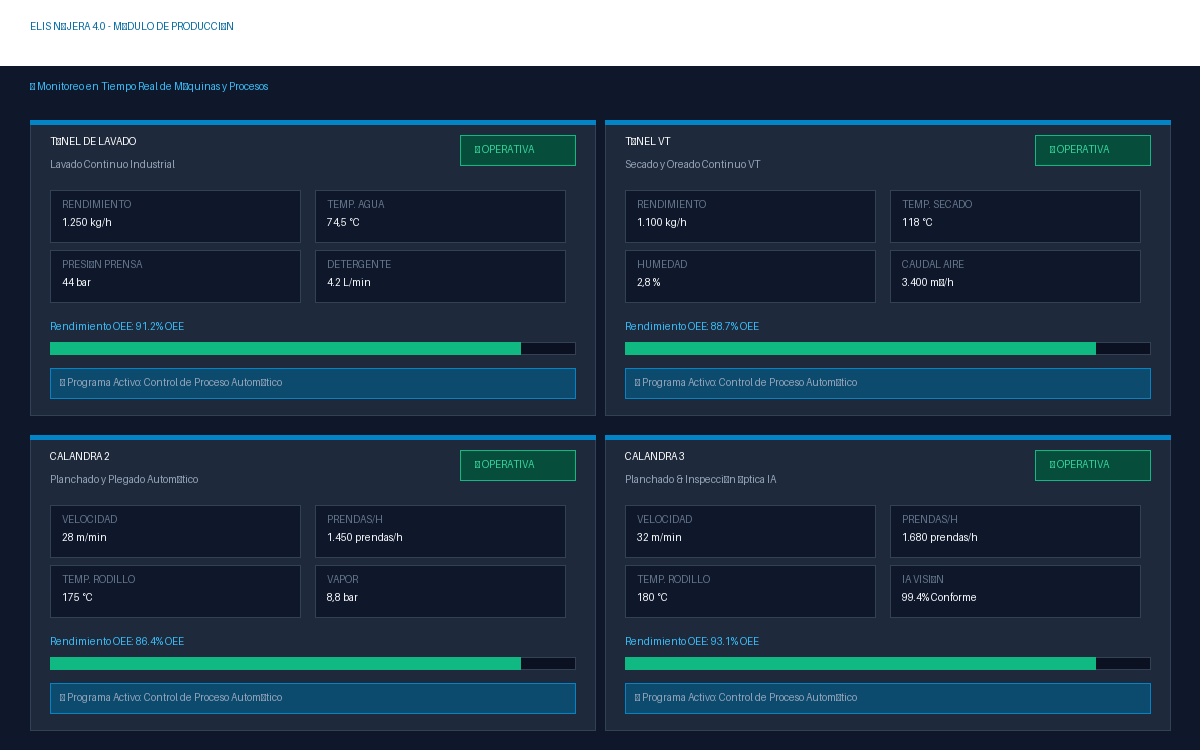
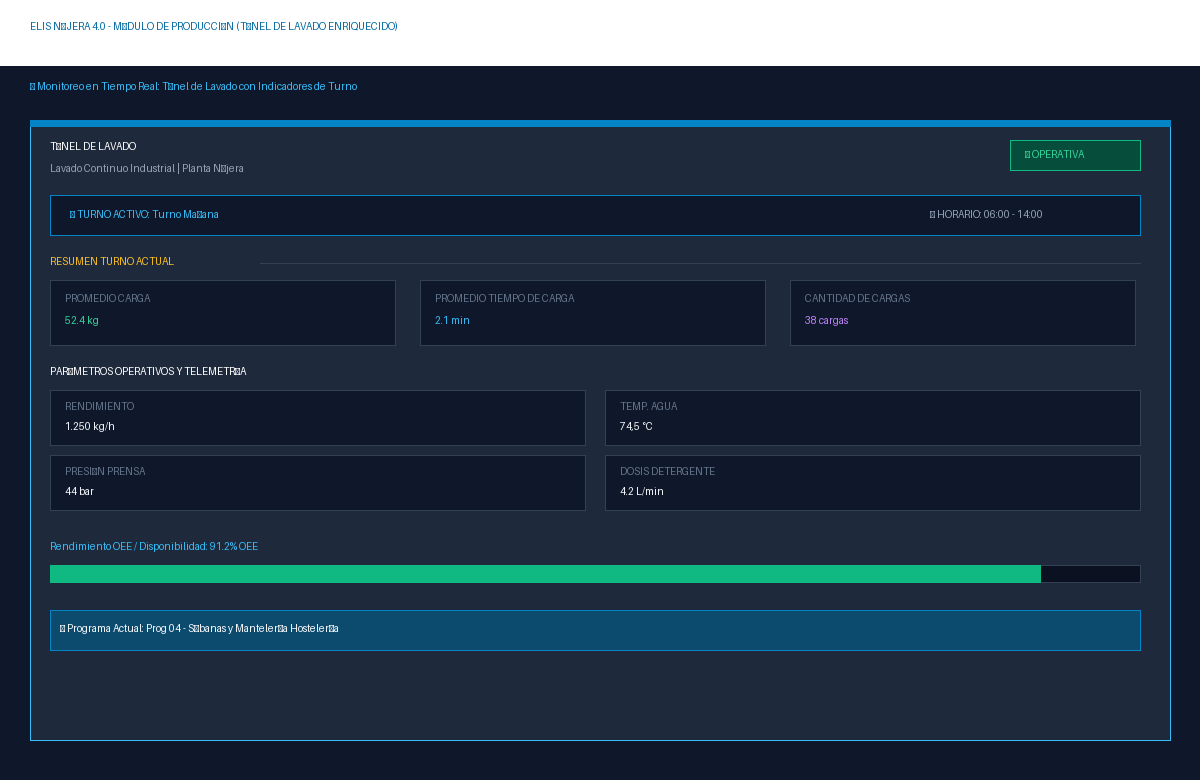
feat: add shift info, subtitle and 3 shift indicators for Tunel de Lavado

diff --git a/app/static/css/styles.css b/app/static/css/styles.css
@@ -384,7 +384,6 @@ body {
   display: flex;
   align-items: center;
   justify-content: space-between;
-
 }
 
 .machine-title-box {
@@ -417,6 +416,96 @@ body {
   font-size: 0.75rem;
   color: var(--text-muted);
   font-weight: 600;
+}
+
+/* Banner de Turno y Horario */
+.shift-banner {
+  background: rgba(15, 23, 42, 0.9);
+  border: 1px solid rgba(56, 189, 248, 0.3);
+  padding: 8px 14px;
+  border-radius: 8px;
+  display: flex;
+  align-items: center;
+  justify-content: space-between;
+  font-size: 0.85rem;
+  color: #e2e8f0;
+}
+
+.shift-banner .shift-title {
+  font-weight: 700;
+  color: #38bdf8;
+  display: flex;
+  align-items: center;
+  gap: 6px;
+}
+
+.shift-banner .shift-time {
+  font-weight: 600;
+  color: var(--text-muted);
+  background: rgba(255, 255, 255, 0.05);
+  padding: 3px 8px;
+  border-radius: 4px;
+}
+
+/* Subtítulo Resumen Turno Actual */
+.section-subtitle-bar {
+  display: flex;
+  align-items: center;
+  gap: 10px;
+  margin-top: 4px;
+  margin-bottom: 2px;
+}
+
+.section-subtitle-bar h4 {
+  font-size: 0.85rem;
+  font-weight: 800;
+  color: #fbbf24;
+  text-transform: uppercase;
+  letter-spacing: 0.8px;
+}
+
+.section-subtitle-bar .subtitle-line {
+  flex: 1;
+  height: 1px;
+  background: linear-gradient(90deg, rgba(251, 191, 36, 0.4), transparent);
+}
+
+/* Cuadrícula de Indicadores de Turno (3 columnas) */
+.shift-indicators-grid {
+  display: grid;
+  grid-template-columns: repeat(3, 1fr);
+  gap: 10px;
+}
+
+.shift-indicator-box {
+  background-color: rgba(15, 23, 42, 0.8);
+  border: 1px solid var(--border-color);
+  padding: 10px 12px;
+  border-radius: 10px;
+  display: flex;
+  flex-direction: column;
+  align-items: center;
+  text-align: center;
+  transition: border-color 0.2s;
+}
+
+.shift-indicator-box:hover {
+  border-color: #38bdf8;
+}
+
+.shift-indicator-label {
+  font-size: 0.68rem;
+  color: var(--text-muted);
+  font-weight: 700;
+  text-transform: uppercase;
+  margin-bottom: 4px;
+  letter-spacing: 0.4px;
+}
+
+.shift-indicator-val {
+  font-size: 1.1rem;
+  font-weight: 800;
+  color: #34d399;
 }
 
 .machine-status-badge {

diff --git a/app/static/js/app.js b/app/static/js/app.js
@@ -266,7 +266,39 @@ async function loadProduccionData() {
               ${m.estado}
             </div>
           </div>
+      `;
 
+      // Tunel de Lavado Custom Shift Banner and Subtitle Resumen
+      if (m.turno_info) {
+        html += `
+          <div class="shift-banner">
+            <span class="shift-title"><i class="fas fa-user-clock"></i> ${m.turno_info.nombre}</span>
+            <span class="shift-time"><i class="fas fa-clock"></i> ${m.turno_info.horario}</span>
+          </div>
+
+          <div class="section-subtitle-bar">
+            <h4>${m.subtitulo_resumen || 'Resumen turno actual'}</h4>
+            <div class="subtitle-line"></div>
+          </div>
+
+          <div class="shift-indicators-grid">
+            <div class="shift-indicator-box">
+              <span class="shift-indicator-label">Promedio Carga</span>
+              <span class="shift-indicator-val">${m.indicadores_turno.promedio_carga}</span>
+            </div>
+            <div class="shift-indicator-box">
+              <span class="shift-indicator-label">Promedio Tiempo</span>
+              <span class="shift-indicator-val">${m.indicadores_turno.promedio_tiempo_carga}</span>
+            </div>
+            <div class="shift-indicator-box">
+              <span class="shift-indicator-label">Cant. Cargas</span>
+              <span class="shift-indicator-val">${m.indicadores_turno.cantidad_cargas}</span>
+            </div>
+          </div>
+        `;
+      }
+
+      html += `
           <div class="telemetry-grid">
             ${m.metricas_clave.map(met => `
               <div class="telemetry-item">

diff --git a/create_screenshots.py b/create_screenshots.py
@@ -59,55 +59,74 @@ def create_mockup_inicio():
     print("Created screenshot_inicio.png")
 
 def create_mockup_produccion():
-    img = Image.new('RGB', (1200, 750), color='#0f172a')
+    img = Image.new('RGB', (1200, 780), color='#0f172a')
     draw = ImageDraw.Draw(img)
 
     # Header
     draw.rectangle([0, 0, 1200, 65], fill='#ffffff')
-    draw.text((30, 20), "ELIS NÁJERA 4.0 - MÓDULO DE PRODUCCIÓN", fill='#0369a1')
+    draw.text((30, 20), "ELIS NÁJERA 4.0 - MÓDULO DE PRODUCCIÓN (TÚNEL DE LAVADO ENRIQUECIDO)", fill='#0369a1')
 
     # Title
-    draw.text((30, 80), "🏭 Monitoreo en Tiempo Real de Máquinas y Procesos", fill='#38bdf8')
+    draw.text((30, 80), "🏭 Monitoreo en Tiempo Real: Túnel de Lavado con Indicadores de Turno", fill='#38bdf8')
 
-    # Machine cards grid (2x2)
-    machines = [
-        ("TÚNEL DE LAVADO", "Lavado Continuo Industrial", "91.2% OEE", [("Rendimiento", "1.250 kg/h"), ("Temp. Agua", "74,5 °C"), ("Presión Prensa", "44 bar"), ("Detergente", "4.2 L/min")]),
-        ("TÚNEL VT", "Secado y Oreado Continuo VT", "88.7% OEE", [("Rendimiento", "1.100 kg/h"), ("Temp. Secado", "118 °C"), ("Humedad", "2,8 %"), ("Caudal Aire", "3.400 m³/h")]),
-        ("CALANDRA 2", "Planchado y Plegado Automático", "86.4% OEE", [("Velocidad", "28 m/min"), ("Prendas/h", "1.450 prendas/h"), ("Temp. Rodillo", "175 °C"), ("Vapor", "8,8 bar")]),
-        ("CALANDRA 3", "Planchado & Inspección Óptica IA", "93.1% OEE", [("Velocidad", "32 m/min"), ("Prendas/h", "1.680 prendas/h"), ("Temp. Rodillo", "180 °C"), ("IA Visión", "99.4% Conforme")])
+    # Tunel de Lavado Detailed Card
+    x, y = 30, 120
+    draw.rectangle([x, y, x + 1140, y + 620], fill='#1e293b', outline='#38bdf8')
+    draw.rectangle([x, y, x + 1140, y + 6], fill='#0284c7')
+
+    draw.text((x + 20, y + 20), "TÚNEL DE LAVADO", fill='#ffffff')
+    draw.text((x + 20, y + 42), "Lavado Continuo Industrial | Planta Nájera", fill='#94a3b8')
+    draw.rectangle([x + 980, y + 20, x + 1110, y + 50], fill='#064e3b', outline='#10b981')
+    draw.text((x + 995, y + 28), "🟢 OPERATIVA", fill='#34d399')
+
+    # Shift Banner
+    draw.rectangle([x + 20, y + 75, x + 1110, y + 115], fill='#0f172a', outline='#0284c7')
+    draw.text((x + 40, y + 88), "🕒 TURNO ACTIVO: Turno Mañana", fill='#38bdf8')
+    draw.text((x + 900, y + 88), "⏰ HORARIO: 06:00 - 14:00", fill='#94a3b8')
+
+    # Subtitle Resumen Turno Actual
+    draw.text((x + 20, y + 135), "RESUMEN TURNO ACTUAL", fill='#fbbf24')
+    draw.line([x + 230, y + 143, x + 1110, y + 143], fill='#334155')
+
+    # 3 Shift Indicators
+    shift_items = [
+        ("PROMEDIO CARGA", "52.4 kg", "#34d399"),
+        ("PROMEDIO TIEMPO DE CARGA", "2.1 min", "#38bdf8"),
+        ("CANTIDAD DE CARGAS", "38 cargas", "#c084fc")
     ]
+    for idx, (label, val, color) in enumerate(shift_items):
+        ix = x + 20 + idx * 370
+        iy = y + 160
+        draw.rectangle([ix, iy, ix + 345, iy + 65], fill='#0f172a', outline='#334155')
+        draw.text((ix + 15, iy + 12), label, fill='#64748b')
+        draw.text((ix + 15, iy + 34), val, fill=color)
 
-    coords = [(30, 120), (605, 120), (30, 435), (605, 435)]
+    # Key Telemetry
+    draw.text((x + 20, y + 245), "PARÁMETROS OPERATIVOS Y TELEMETRÍA", fill='#ffffff')
+    telemetry = [
+        ("Rendimiento", "1.250 kg/h"),
+        ("Temp. Agua", "74,5 °C"),
+        ("Presión Prensa", "44 bar"),
+        ("Dosis Detergente", "4.2 L/min")
+    ]
+    for i_idx, (lbl, val) in enumerate(telemetry):
+        ix = x + 20 + (i_idx % 2) * 555
+        iy = y + 270 + (i_idx // 2) * 65
+        draw.rectangle([ix, iy, ix + 535, iy + 55], fill='#0f172a', outline='#334155')
+        draw.text((ix + 15, iy + 10), lbl.upper(), fill='#64748b')
+        draw.text((ix + 15, iy + 30), val, fill='#f8fafc')
 
-    for idx, (name, subtitle, oee, items) in enumerate(machines):
-        x, y = coords[idx]
-        draw.rectangle([x, y, x + 565, y + 295], fill='#1e293b', outline='#334155')
-        # Top bar
-        draw.rectangle([x, y, x + 565, y + 4], fill='#0284c7')
-        # Title
-        draw.text((x + 20, y + 15), name, fill='#ffffff')
-        draw.text((x + 20, y + 38), subtitle, fill='#94a3b8')
-        draw.rectangle([x + 430, y + 15, x + 545, y + 45], fill='#064e3b', outline='#10b981')
-        draw.text((x + 445, y + 23), "🟢 OPERATIVA", fill='#34d399')
+    # OEE Bar
+    draw.text((x + 20, y + 420), "Rendimiento OEE / Disponibilidad: 91.2% OEE", fill='#38bdf8')
+    draw.rectangle([x + 20, y + 445, x + 1110, y + 462], fill='#0b1120', outline='#334155')
+    draw.rectangle([x + 20, y + 445, x + 20 + 990, y + 462], fill='#10b981')
 
-        # Items 2x2
-        for i_idx, (lbl, val) in enumerate(items):
-            ix = x + 20 + (i_idx % 2) * 265
-            iy = y + 70 + (i_idx // 2) * 60
-            draw.rectangle([ix, iy, ix + 250, iy + 52], fill='#0f172a', outline='#334155')
-            draw.text((ix + 12, iy + 8), lbl.upper(), fill='#64748b')
-            draw.text((ix + 12, iy + 26), val, fill='#f8fafc')
-
-        # OEE Bar
-        draw.text((x + 20, y + 200), f"Rendimiento OEE: {oee}", fill='#38bdf8')
-        draw.rectangle([x + 20, y + 222, x + 545, y + 234], fill='#0b1120', outline='#334155')
-        draw.rectangle([x + 20, y + 222, x + 20 + 470, y + 234], fill='#10b981')
-
-        draw.rectangle([x + 20, y + 248, x + 545, y + 278], fill='#0c4a6e', outline='#0284c7')
-        draw.text((x + 30, y + 256), f"▶ Programa Activo: Control de Proceso Automático", fill='#94a3b8')
+    # Program footer
+    draw.rectangle([x + 20, y + 490, x + 1110, y + 530], fill='#0c4a6e', outline='#0284c7')
+    draw.text((x + 30, y + 502), "▶ Programa Actual: Prog 04 - Sábanas y Mantelería Hostelería", fill='#f8fafc')
 
     img.save('pdf_assets/screenshot_produccion.png')
-    print("Created screenshot_produccion.png")
+    print("Created updated screenshot_produccion.png")
 
 def create_mockup_admin():
     img = Image.new('RGB', (1200, 600), color='#0f172a')
@@ -116,7 +135,6 @@ def create_mockup_admin():
     draw.rectangle([0, 0, 1200, 65], fill='#ffffff')
     draw.text((30, 20), "ELIS NÁJERA 4.0 - PANEL DE ADMINISTRACIÓN Y PERMISOS", fill='#0369a1')
 
-    # Left: User Management
     draw.rectangle([30, 95, 580, 560], fill='#1e293b', outline='#334155')
     draw.text((50, 115), "👥 Gestión de Usuarios y Credenciales", fill='#c084fc')
     
@@ -135,7 +153,6 @@ def create_mockup_admin():
         draw.rectangle([50, y, 560, y + 42], fill='#0f172a', outline='#334155')
         draw.text((60, y + 12), f"{u}  |  {n}  |  {r}  |  {s}", fill='#f8fafc')
 
-    # Right: Permissions Matrix
     draw.rectangle([610, 95, 1170, 560], fill='#1e293b', outline='#334155')
     draw.text((630, 115), "⚙ Matriz de Visibilidad y Permisos", fill='#38bdf8')
 

diff --git a/test_app.py b/test_app.py
@@ -35,45 +35,25 @@ class TestElis4App(unittest.TestCase):
 
         self.assertTrue(verify_password("admin1", usernames["Admin"]["password_hash"]))
         self.assertTrue(verify_password("admin", usernames["mtto"]["password_hash"]))
-        self.assertTrue(verify_password("admin", usernames["producción"]["password_hash"]))
-        self.assertTrue(verify_password("admin", usernames["Dirección"]["password_hash"]))
 
-    def test_02_login_admin(self):
-        res = self.client.post("/api/auth/login", json={"username": "Admin", "password": "admin1"})
-        self.assertEqual(res.status_code, 200)
-        data = res.json()
-        self.assertIn("access_token", data)
-        self.assertEqual(data["user"]["role"], "Admin")
-        self.assertTrue(data["permissions"]["produccion"]["can_view"])
-        self.assertTrue(data["permissions"]["consumos"]["can_view"])
-
-    def test_03_login_produccion_machines(self):
+    def test_02_login_produccion_tunel_lavado(self):
         res = self.client.post("/api/auth/login", json={"username": "producción", "password": "admin"})
         self.assertEqual(res.status_code, 200)
         token = res.json()["access_token"]
 
-        # Producción summary request
         res_prod = self.client.get("/api/produccion/summary", headers={"Authorization": f"Bearer {token}"})
         self.assertEqual(res_prod.status_code, 200)
         data = res_prod.json()
-        self.assertIn("maquinas", data)
         
-        machine_names = [m["nombre"] for m in data["maquinas"]]
-        self.assertIn("TÚNEL DE LAVADO", machine_names)
-        self.assertIn("TÚNEL VT", machine_names)
-        self.assertIn("CALANDRA 2", machine_names)
-        self.assertIn("CALANDRA 3", machine_names)
-
-    def test_04_login_mtto_permissions(self):
-        res = self.client.post("/api/auth/login", json={"username": "mtto", "password": "admin"})
-        self.assertEqual(res.status_code, 200)
-        token = res.json()["access_token"]
-
-        res_prod = self.client.get("/api/produccion/summary", headers={"Authorization": f"Bearer {token}"})
-        self.assertEqual(res_prod.status_code, 403)
-
-        res_cons = self.client.get("/api/consumos/summary", headers={"Authorization": f"Bearer {token}"})
-        self.assertEqual(res_cons.status_code, 200)
+        # Check Tunel de Lavado Custom Card Fields
+        tunel = next(m for m in data["maquinas"] if m["id"] == "TUNEL_LAVADO")
+        self.assertEqual(tunel["subtitulo_resumen"], "Resumen turno actual")
+        self.assertIn("turno_info", tunel)
+        self.assertEqual(tunel["turno_info"]["nombre"], "Turno Mañana")
+        self.assertIn("indicadores_turno", tunel)
+        self.assertIn("promedio_carga", tunel["indicadores_turno"])
+        self.assertIn("promedio_tiempo_carga", tunel["indicadores_turno"])
+        self.assertIn("cantidad_cargas", tunel["indicadores_turno"])
 
 if __name__ == "__main__":
     unittest.main()

diff --git a/app/routers/produccion_router.py b/app/routers/produccion_router.py
@@ -34,6 +34,16 @@ def get_produccion_summary(user: dict = Depends(check_produccion_permission)):
                 "estado": "Operativa",
                 "icono": "fa-water",
                 "oee": 91.2,
+                "turno_info": {
+                    "nombre": "Turno Mañana",
+                    "horario": "06:00 - 14:00"
+                },
+                "subtitulo_resumen": "Resumen turno actual",
+                "indicadores_turno": {
+                    "promedio_carga": "52.4 kg",
+                    "promedio_tiempo_carga": "2.1 min",
+                    "cantidad_cargas": "38 cargas"
+                },
                 "metricas_clave": [
                     {"label": "Rendimiento", "val": "1.250 kg/h"},
                     {"label": "Temp. Agua", "val": "74,5 °C"},
